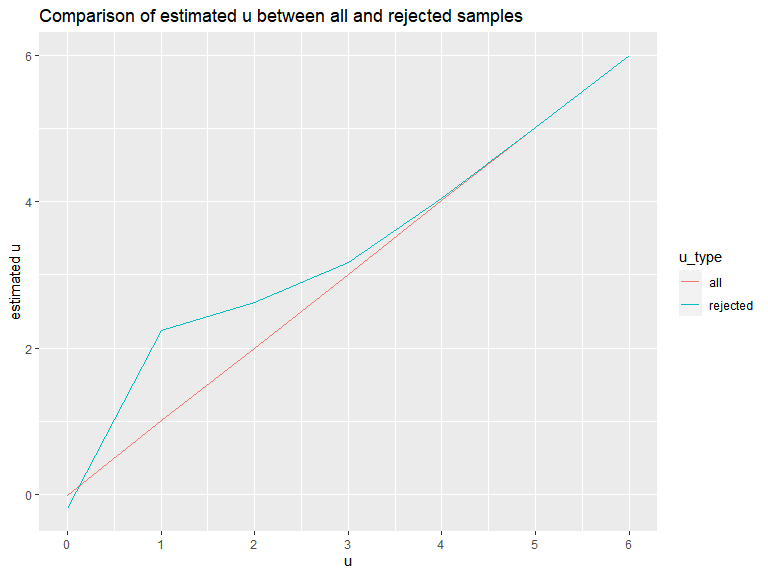
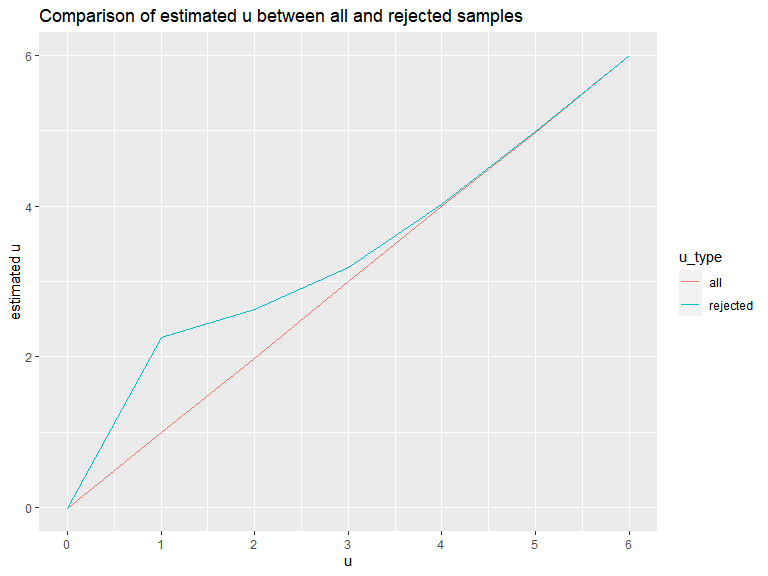
minor formart improvement

diff --git a/p8105_hw5_zj2357.md b/p8105_hw5_zj2357.md
@@ -181,26 +181,26 @@ exp_res
 ```
 
     ## # A tibble: 7 × 4
-    ##       u p_rej   u_est  u_rej
-    ##   <int> <dbl>   <dbl>  <dbl>
-    ## 1     0 0.046 -0.0172 -0.199
-    ## 2     1 0.186  1.01    2.24 
-    ## 3     2 0.551  1.99    2.62 
-    ## 4     3 0.897  3.00    3.18 
-    ## 5     4 0.988  4.01    4.04 
-    ## 6     5 1      5.02    5.02 
-    ## 7     6 1      6.00    6.00
+    ##       u p_rej   u_est   u_rej
+    ##   <int> <dbl>   <dbl>   <dbl>
+    ## 1     0 0.048 -0.0122 -0.0182
+    ## 2     1 0.180  0.989   2.25  
+    ## 3     2 0.546  1.98    2.63  
+    ## 4     3 0.89   3.00    3.19  
+    ## 5     4 0.988  4.00    4.03  
+    ## 6     5 1.00   4.99    4.99  
+    ## 7     6 1      6.01    6.01
 
 Then, make a plot for the percentage of samples where null was rejected
 $(p<0.05)$.
 
 ``` r
 exp_res %>%
-  ggplot(aes(x=u,y=p_rej)) +
+  ggplot(aes(x = u,y = p_rej)) +
   geom_line() +
   scale_y_continuous(labels = scales::percent_format(scale = 100)) +
-  scale_x_continuous(breaks = 0:6)+
-  ylab("percentage of rejection")+
+  scale_x_continuous(breaks = 0:6) +
+  ylab("percentage of rejection") +
   labs(title = "Percentage of Rejection over Different u")
 ```
 
@@ -221,11 +221,11 @@ exp_res %>%
     names_to = "u_type",
     values_to = "u_est"
   ) %>%
-  ggplot(aes(x=u,y=u_est, color = u_type)) +
+  ggplot(aes(x = u, y = u_est, color = u_type)) +
   geom_line() +
-  scale_color_discrete(labels = c("all", "rejected"))+
-  scale_x_continuous(breaks = 0:6)+
-  ylab("estimated u")+
+  scale_color_discrete(labels = c("all", "rejected")) +
+  scale_x_continuous(breaks = 0:6) +
+  ylab("estimated u") +
   labs(title = "Comparison of estimated u between all and rejected samples")
 ```
 
@@ -234,7 +234,8 @@ exp_res %>%
 Because the number of rejected samples is low when $u=0$, the
 $\hat{u}_{rej}$ is quite unstable around 0.
 
-For $u \in \{1,2,3,4,5,6\}$, $\hat{u}_{rej}>\hat{u}_{all}$. However, the
-gap $\hat{u}_{rej}-\hat{u}_{all}$ gradualy decreases with the increase
-of $u$. Because when $u \geq 5$, nearly all samples are rejected,
-$\hat{u}_{rej} \approx \hat{u}_{all}$ under such conditions.
+For $u \in \{1,2,3,4,5,6\}$, $\hat{u}_{rej}$\>$\hat{u}_{all}$. However,
+the gap $\hat{u}_{rej}$-$\hat{u}_{all}$ gradually decreases with the
+increase of $u$. Because when $u \geq 5$, nearly all samples are
+rejected, $\hat{u}_{rej}$ $\approx$ $\hat{u}_{all}$ under such
+conditions.
